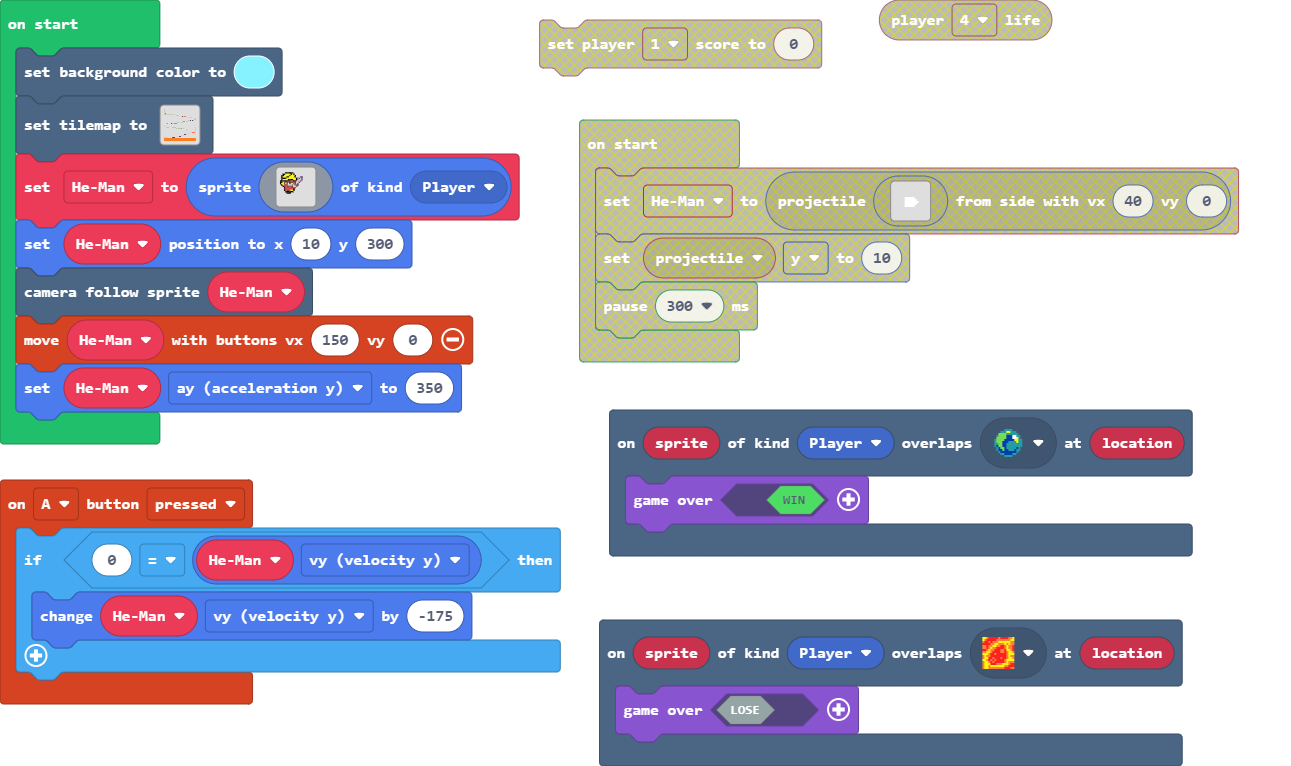
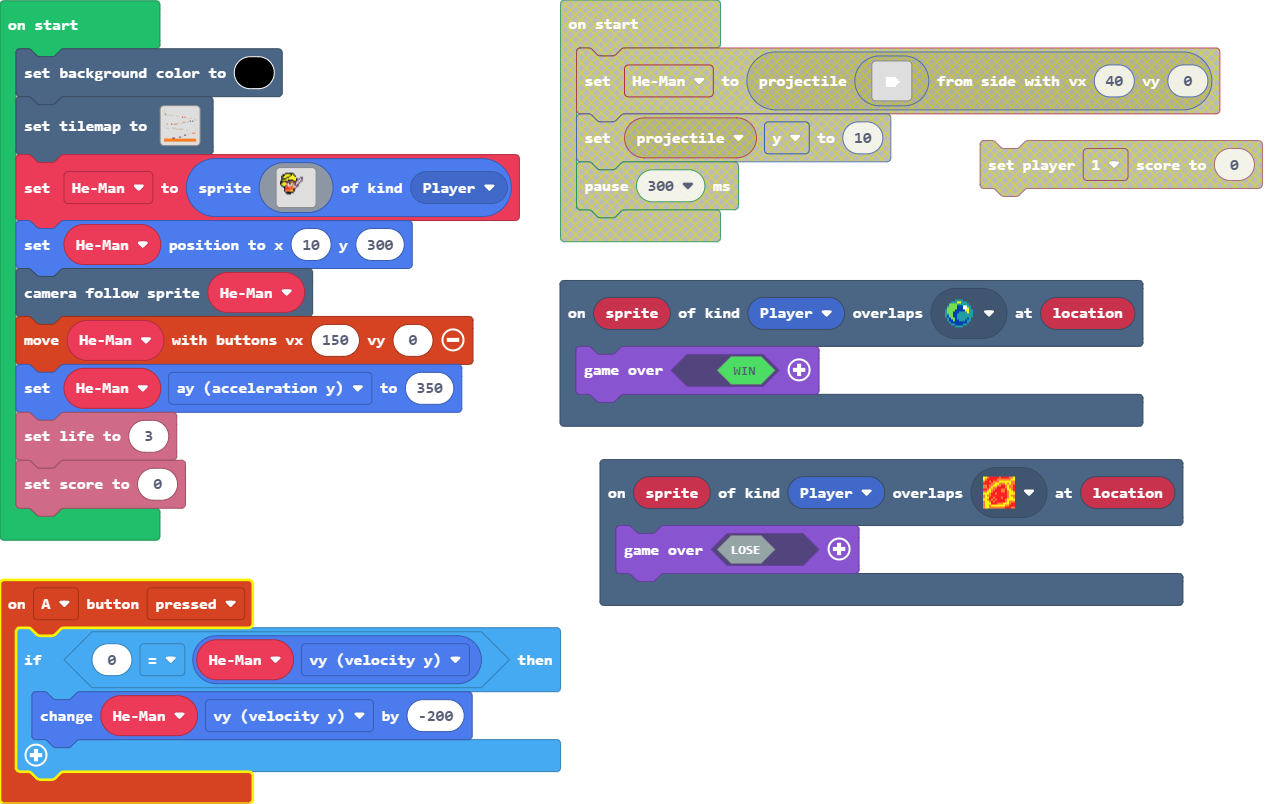
Update main.blocks, main.ts, tilemap.g.jres, tilemap.g.ts, images.g.jres, images.g.ts

diff --git a/tilemap.g.ts b/tilemap.g.ts
@@ -6,13 +6,13 @@ namespace myTiles {
     helpers._registerFactory("tilemap", function(name: string) {
         switch(helpers.stringTrim(name)) {
             case "level1":
-            case "level1":return tiles.createTilemap(hex`2000200002000000000000000000000000000000000000000000000000000000000000000200000000000000000000000000000000000000000000000000000000000000020000000000000000000000000000000000000000000000000000000000000002000000000000000000000000000000000000000000000000000000000000000205000000000000000000000000000000000000000000000000000000000000020202020202020202020200000000000000000000000000000000000000000000000000000000000000000002020200000000000000000000000000000000000000000000000000000000000000000000040704080800000000000000000000000000000000000000000000000000000000000000000004040404010000000000000000000000000000000000000000000000000000000000000000000000010000000000000000000000000000000000000000000000000000000000000101000000000000000000000000000000000000000000000000010107000701000000000000000000000000000000000000000000080800010100000000000000000000000000000000000000000001010000010100000000000000000000000000000001080000000701010808080000000000000000000000000000000000000000000000000000000000000000000000000000000000000000000000000000000100000000000000000000000000000000000000000000000000000000000000000000000000000000000000000000000000000000000000000000000000000000000101010000000101010100000000000000000000000000000000000000040000000000000000000000000101010101080001000000000000000000000004000000000000000000000000000000000000000000000200000000000000000400000000000000000000000000000000000000000000000200000000000000040000000000000000000000000000000000000000000000000000000000000004000000000000000000000000000000000000000000000000000004040808080400000000000000000000000000000000000000000000000404040000000000000000000000000000000000000000000000000000070704000000000000000000000000000000000000000000000000000004040400000000000000000000000000000000000000000000000000040407070000000000000000000000000000000304040400000000070707000000000000000000000000000000000000000000060606060606060606060606060606060606060606060606060606060606060606060606060606060606060606060606060606060606060606060606060606060606060606060606060606060606060606060606060606060606060606060606`, img`
+            case "level1":return tiles.createTilemap(hex`2000200002000000000000000000000000000000000000000000000000000000000000000200000000000000000000000000000000000000000000000000000000000000020000000000000000000000000000000000000000000000000000000000000002000000000000000000000000000000000000000000000000000000000000000205000000000000000000000000000000000000000000000000000000000000020202020202020202020000000000000000000000000000000000000000000000000000000000000000000002020200000000000000000000000000000000000000000000000000000000000000000000040704080800000000000000000000000000000000000000000000000000000000000000000004040404010000000000000000000000000000000000000000000000000000000000000000000000010000000000000000000000000000000000000000000000000000000000000101000000000000000000000000000000000000000000000000010107000701000000000000000000000000000000000000000000080800010100000000000000000000000000000000000000000001010000010100000000000000000000000000000001080000000701010808080000000000000000000000000000000000000000000000000000000000000000000000000000000000000000000000000000000100000000000000000000000000000000000000000000000000000000000000000000000000000000000000000000000000000000000000000000000000000000000101010000000101010100000000000000000000000000000000000000040000000000000000000000000101010101080001000000000000000000000004000000000000000000000000000000000000000000000200000000000000000400000000000000000000000000000000000000000000000200000000000000040000000000000000000000000000000000000000000000000000000000000004000000000000000000000000000000000000000000000000000004040808080400000000000000000000000000000000000000000000000404040000000000000000000000000000000000000000000000000000070704000000000000000000000000000000000000000000000000000004040400000000000000000000000000000000000000000000000000040407070000000000000000000000000000000304040400000000070707000000000000000000000000000000000000000000060606060606060606060606060606060606060606060606060606060606060606060606060606060606060606060606060606060606060606060606060606060606060606060606060606060606060606060606060606060606060606060606`, img`
 2...............................
 2...............................
 2...............................
 2...............................
 2...............................
-22222222222.....................
+2222222222......................
 ............222.................
 .................222............
 .......................22222....

diff --git a/images.g.ts b/images.g.ts
@@ -3,6 +3,51 @@ namespace myImages {
 
     helpers._registerFactory("image", function(name: string) {
         switch(helpers.stringTrim(name)) {
+            case "image9":
+            case "He-Man Sword":return img`
+. . . . . . . . . . . . . . . . 
+. . . . . . . . . . . . . . . . 
+. . . . . . . . . . . . . . . . 
+. . . . . . . . . . . . . . . . 
+. . . . . . . . . . . . . . . . 
+. . . . . . . . . . . . . . . . 
+. . . . . 1 1 1 1 1 . . . . . . 
+. . . . . 1 1 1 1 1 1 . . . . . 
+. . . . . 1 1 1 1 1 1 1 . . . . 
+. . . . . 1 1 1 1 1 1 . . . . . 
+. . . . . 1 1 1 1 1 . . . . . . 
+. . . . . . . . . . . . . . . . 
+. . . . . . . . . . . . . . . . 
+. . . . . . . . . . . . . . . . 
+. . . . . . . . . . . . . . . . 
+. . . . . . . . . . . . . . . . 
+`;
+            case "image10":return img`
+........................
+....ffffff..............
+..ff5555f5f.............
+.ff5555f555f............
+.f555ff55555...cc.......
+.ffff5555555f.cdc.......
+.f5555ffff55fcddc.......
+fffffffeeeffcddc........
+ff554ebf44ecddc.........
+f555d41fddecdc..........
+.f55e4dddedccc..........
+..ffee44e4dde...........
+...f222244ee............
+...f2222e2f.............
+...f444455f.............
+....ffffff..............
+.....fff................
+........................
+........................
+........................
+........................
+........................
+........................
+........................
+`;
             case "image1":return img`
 . . . . . . . . . . . . . . . . 
 . . . . . . . . . . . . . . . . 
@@ -46,94 +91,6 @@ f55ede1fddecdc..........
 ........................
 ........................
 ........................
-`;
-            case "image3":return img`
-. . . . . . . . . . . . . . . . 
-. . . . . . . . . . . . . . . . 
-. . . . . . . . . . . . . . . . 
-. . . . . . . . . . . . . . . . 
-. . . . . . . . . . . . . . . . 
-. . . . . . . . . . . . . . . . 
-. . . . . 1 1 1 1 1 . . . . . . 
-. . . . . 1 1 1 1 1 1 . . . . . 
-. . . . . 1 1 1 1 1 1 1 . . . . 
-. . . . . 1 1 1 1 1 1 . . . . . 
-. . . . . 1 1 1 1 1 . . . . . . 
-. . . . . . . . . . . . . . . . 
-. . . . . . . . . . . . . . . . 
-. . . . . . . . . . . . . . . . 
-. . . . . . . . . . . . . . . . 
-. . . . . . . . . . . . . . . . 
-`;
-            case "image4":return img`
-........................
-....ffffff..............
-..ff5555f5f.............
-.ff5555f555f............
-.f555ff5555f...cc.......
-.ffff5555555f.cdc.......
-.f5555ffff55fcddc.......
-fffffffeeeffcddc........
-ff5eeebfeeecddc.........
-f55ede1fddecdc..........
-.f5eeedddedccc..........
-..feeeeeeedde...........
-...f2222eeee............
-...f2222e2f.............
-...feeee55f.............
-....ffffff..............
-.....fff................
-........................
-........................
-........................
-........................
-........................
-........................
-........................
-`;
-            case "image5":return img`
-........................
-....ffffff..............
-..ff5555f5f.............
-.ff5555f555f............
-.f555ff5555f...cc.......
-.ffff5555555f.cdc.......
-.f5555ffff55fcddc.......
-fffffffeeeffcddc........
-ff5eeebfeeecddc.........
-f55ede1fddecdc..........
-.f5eeedddedccc..........
-..feeeeeeedde...........
-...f2222eeee............
-...f2222e2f.............
-...feeee55f.............
-....ffffff..............
-.....fff................
-........................
-........................
-........................
-........................
-........................
-........................
-........................
-`;
-            case "image6":return img`
-. . . . . . . . . . . . . . . . 
-. . . . . . . . . . . . . . . . 
-. . . . . . . . . . . . . . . . 
-. . . . . . . . . . . . . . . . 
-. . . . . . . . . . . . . . . . 
-. . . . . . . . . . . . . . . . 
-. . . . . 1 1 1 1 1 . . . . . . 
-. . . . . 1 1 1 1 1 1 . . . . . 
-. . . . . 1 1 1 1 1 1 1 . . . . 
-. . . . . 1 1 1 1 1 1 . . . . . 
-. . . . . 1 1 1 1 1 . . . . . . 
-. . . . . . . . . . . . . . . . 
-. . . . . . . . . . . . . . . . 
-. . . . . . . . . . . . . . . . 
-. . . . . . . . . . . . . . . . 
-. . . . . . . . . . . . . . . . 
 `;
         }
         return null;

diff --git a/main.ts b/main.ts
@@ -1,6 +1,6 @@
 controller.A.onEvent(ControllerButtonEvent.Pressed, function () {
     if (0 == HeMan.vy) {
-        HeMan.vy += -175
+        HeMan.vy += -200
     }
 })
 scene.onOverlapTile(SpriteKind.Player, sprites.dungeon.hazardLava0, function (sprite, location) {
@@ -10,24 +10,24 @@ scene.onOverlapTile(SpriteKind.Player, sprites.dungeon.collectibleBlueCrystal, f
     game.over(true)
 })
 let HeMan: Sprite = null
-scene.setBackgroundColor(9)
+scene.setBackgroundColor(15)
 tiles.setTilemap(tilemap`level1`)
 HeMan = sprites.create(img`
     ........................
     ....ffffff..............
     ..ff5555f5f.............
     .ff5555f555f............
-    .f555ff5555f...cc.......
+    .f555ff55555...cc.......
     .ffff5555555f.cdc.......
     .f5555ffff55fcddc.......
     fffffffeeeffcddc........
-    ff5eeebfeeecddc.........
-    f55ede1fddecdc..........
-    .f5eeedddedccc..........
-    ..feeeeeeedde...........
-    ...f2222eeee............
+    ff554ebf44ecddc.........
+    f555d41fddecdc..........
+    .f55e4dddedccc..........
+    ..ffee44e4dde...........
+    ...f222244ee............
     ...f2222e2f.............
-    ...feeee55f.............
+    ...f444455f.............
     ....ffffff..............
     .....fff................
     ........................
@@ -42,3 +42,5 @@ HeMan.setPosition(10, 300)
 scene.cameraFollowSprite(HeMan)
 controller.moveSprite(HeMan, 150, 0)
 HeMan.ay = 350
+info.setLife(3)
+info.setScore(0)
